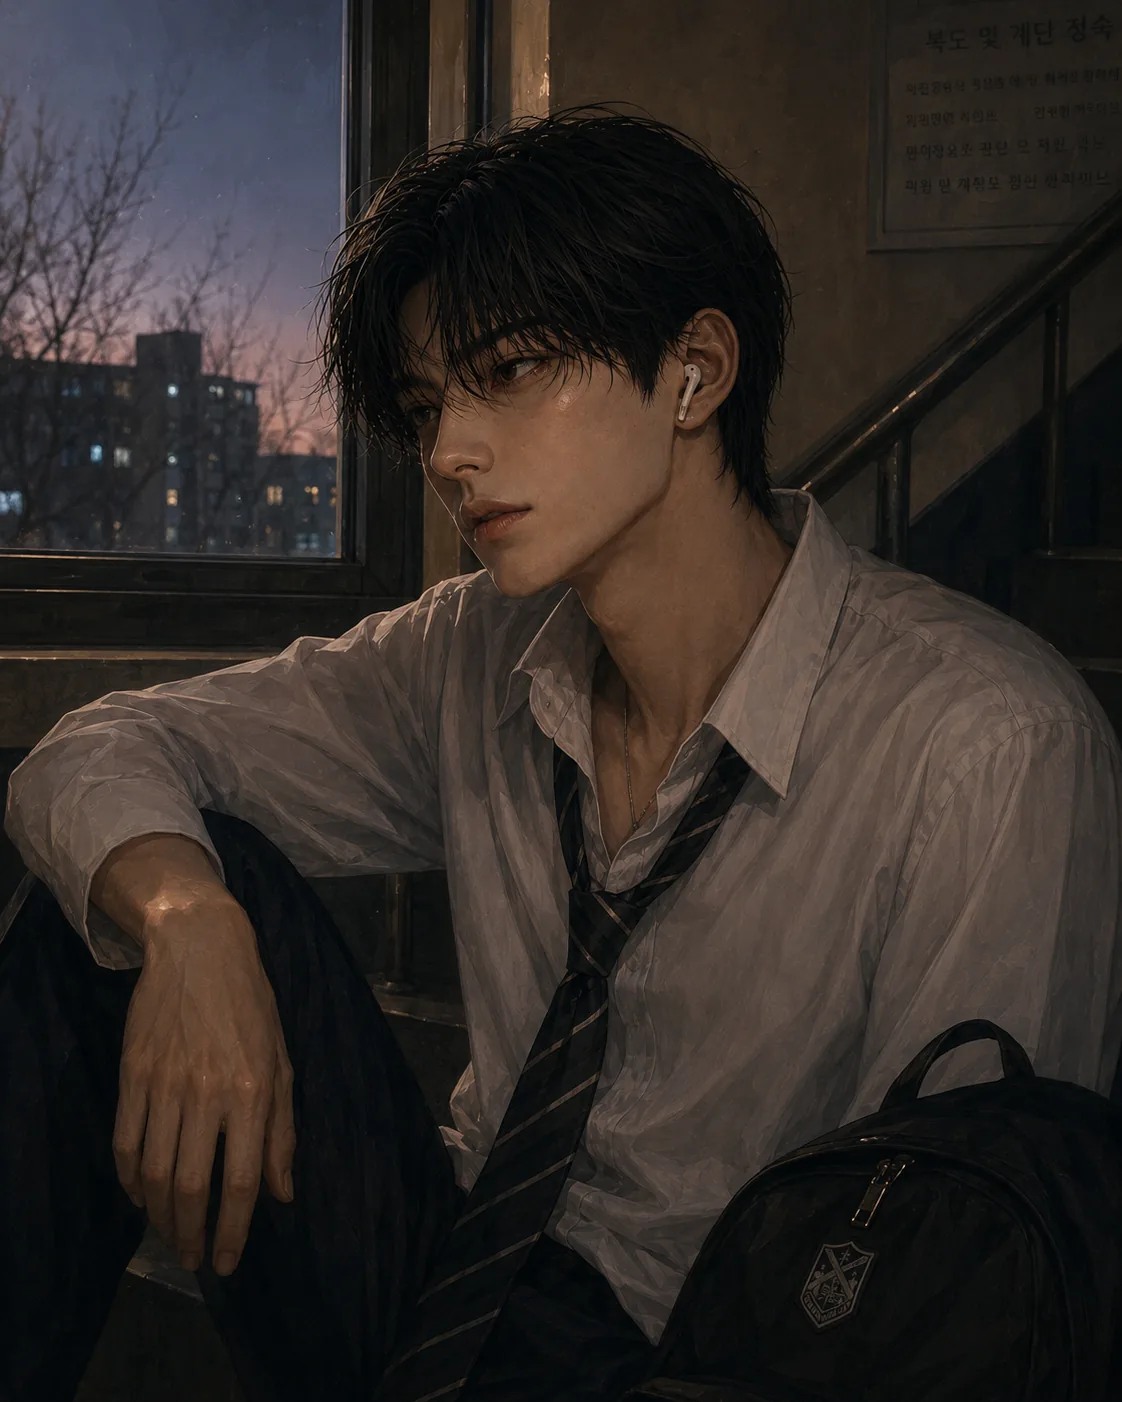
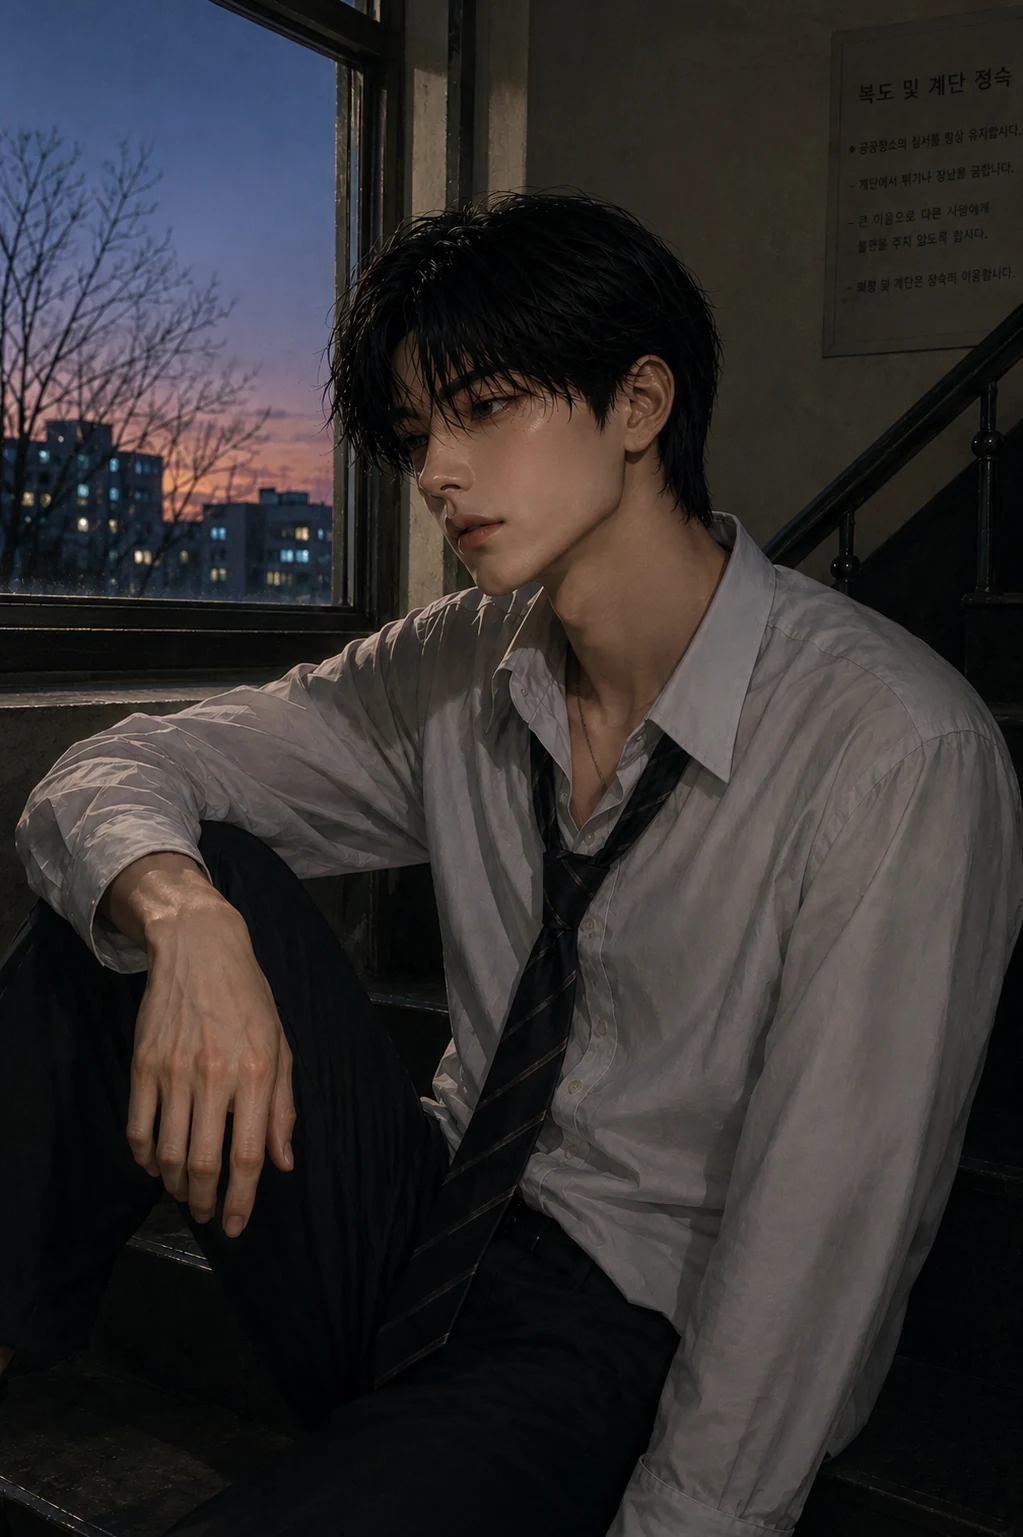
민현 사진 다섯 장을 새로 뽑은 것으로 간다
옥상·계단참·보건실은 있던 자리를 갈아끼웠다. 옥상 사진에서 자판기가
빠졌으므로 설명도 난간 쪽으로 고쳤다 — 그림과 설명이 갈리면 인물이
사진마다 다른 데 있는 사람이 된다.

레코드샵은 지금까지 민현 셀카 한 장뿐이었다. 교복 차림과 사복 차림
두 장을 넣었다. 사복 쪽은 교복이 아닌 몇 안 되는 사진이라, 학교와
상관없이 제 발로 온 자리라는 것이 그 한 장으로 읽힌다.

Claude-Session: https://claude.ai/code/session_01437N5arYTDRea9BKubBq2J

diff --git a/app-data.js b/app-data.js
@@ -23,7 +23,7 @@ const CHARS = {
   jaeeon:{name:"이재언",color:"#7FD8D8",dk:"#2fa8a0",pale:"#cef0ee",img:"jaeeon-profile.webp",zoom:"150%",pos:"50% 22%",
     gallery:["jaeeon-treat.webp","jaeeon-care.webp","jaeeon-cook.webp","jaeeon-work.webp","jaeeon-evening.webp","jaeeon-market.webp","jaeeon-laundry.webp","jaeeon-car.webp","jaeeon-classroom.webp","jaeeon-rooftop.webp","jaeeon-curtain.webp","jaeeon-shelf.webp","jaeeon-bandage.webp","jaeeon-cabinet.webp","jaeeon-bottle.webp","jaeeon-chart.webp","jaeeon-door.webp","jaeeon-mug.webp","jaeeon-back.webp","jaeeon-driveseat.webp","jaeeon-corridor.webp","jaeeon-sink.webp"]},
   minhyun:{name:"이민현",color:"#FF9E80",dk:"#f0764a",pale:"#ffe0d2",img:"minhyun-profile.webp",zoom:"150%",pos:"50% 22%",
-    gallery:["minhyun-candy.webp","minhyun-corridor.webp","minhyun-rain.webp","minhyun-gate.webp","minhyun-morning.webp","minhyun-alley.webp","minhyun-gym.webp","minhyun-busstop.webp","minhyun-winter.webp","minhyun-snow.webp","minhyun-bench.webp","minhyun-desk.webp","minhyun-stair.webp","minhyun-vending.webp","minhyun-laundry.webp","minhyun-conv.webp","minhyun-nap.webp","minhyun-neon.webp","minhyun-ramen.webp","minhyun-window.webp","minhyun-mirror.webp"]},
+    gallery:["minhyun-candy.webp","minhyun-corridor.webp","minhyun-rain.webp","minhyun-gate.webp","minhyun-morning.webp","minhyun-alley.webp","minhyun-gym.webp","minhyun-busstop.webp","minhyun-winter.webp","minhyun-snow.webp","minhyun-bench.webp","minhyun-desk.webp","minhyun-stair.webp","minhyun-vending.webp","minhyun-laundry.webp","minhyun-conv.webp","minhyun-nap.webp","minhyun-neon.webp","minhyun-ramen.webp","minhyun-window.webp","minhyun-mirror.webp","minhyun-crate.webp","minhyun-record.webp"]},
 };
 /* 교생 실습 기간. etc.의 D-카운트가 여기서 나온다 */
 const ENROLL_DAYS = 30;
@@ -810,7 +810,7 @@ const SCENE_SHOT={
   "옥상":     {jaeeon:["jaeeon-rooftop"], minhyun:["minhyun-vending"]},
   "편의점":   {minhyun:["minhyun-conv","minhyun-ramen"]},
   "도서관":   {jaeeon:["jaeeon-shelf"]},
-  "레코드샵": {minhyun:["minhyun-mirror"]},
+  "레코드샵": {minhyun:["minhyun-crate","minhyun-record","minhyun-mirror"]},
   /* 밤에 처음 켜면 여기서 재언을 만난다. 사진도 밤 코인세탁소다 —
      건조기 앞에 앉아 수건을 개고 있고 창밖에 비가 온다 */
   "빨래방":   {minhyun:["minhyun-laundry"], jaeeon:["jaeeon-laundry"]},

diff --git a/app/lib/rules.ts b/app/lib/rules.ts
@@ -32,7 +32,7 @@ const CHARS = {
   jaeeon:{name:"이재언",color:"#7FD8D8",dk:"#2fa8a0",pale:"#cef0ee",img:"jaeeon-profile.webp",zoom:"150%",pos:"50% 22%",
     gallery:["jaeeon-treat.webp","jaeeon-care.webp","jaeeon-cook.webp","jaeeon-work.webp","jaeeon-evening.webp","jaeeon-market.webp","jaeeon-laundry.webp","jaeeon-car.webp","jaeeon-classroom.webp","jaeeon-rooftop.webp","jaeeon-curtain.webp","jaeeon-shelf.webp","jaeeon-bandage.webp","jaeeon-cabinet.webp","jaeeon-bottle.webp","jaeeon-chart.webp","jaeeon-door.webp","jaeeon-mug.webp","jaeeon-back.webp","jaeeon-driveseat.webp","jaeeon-corridor.webp","jaeeon-sink.webp"]},
   minhyun:{name:"이민현",color:"#FF9E80",dk:"#f0764a",pale:"#ffe0d2",img:"minhyun-profile.webp",zoom:"150%",pos:"50% 22%",
-    gallery:["minhyun-candy.webp","minhyun-corridor.webp","minhyun-rain.webp","minhyun-gate.webp","minhyun-morning.webp","minhyun-alley.webp","minhyun-gym.webp","minhyun-busstop.webp","minhyun-winter.webp","minhyun-snow.webp","minhyun-bench.webp","minhyun-desk.webp","minhyun-stair.webp","minhyun-vending.webp","minhyun-laundry.webp","minhyun-conv.webp","minhyun-nap.webp","minhyun-neon.webp","minhyun-ramen.webp","minhyun-window.webp","minhyun-mirror.webp"]},
+    gallery:["minhyun-candy.webp","minhyun-corridor.webp","minhyun-rain.webp","minhyun-gate.webp","minhyun-morning.webp","minhyun-alley.webp","minhyun-gym.webp","minhyun-busstop.webp","minhyun-winter.webp","minhyun-snow.webp","minhyun-bench.webp","minhyun-desk.webp","minhyun-stair.webp","minhyun-vending.webp","minhyun-laundry.webp","minhyun-conv.webp","minhyun-nap.webp","minhyun-neon.webp","minhyun-ramen.webp","minhyun-window.webp","minhyun-mirror.webp","minhyun-crate.webp","minhyun-record.webp"]},
 };
 /* 교생 실습 기간. etc.의 D-카운트가 여기서 나온다 */
 const ENROLL_DAYS = 30;
@@ -819,7 +819,7 @@ const SCENE_SHOT={
   "옥상":     {jaeeon:["jaeeon-rooftop"], minhyun:["minhyun-vending"]},
   "편의점":   {minhyun:["minhyun-conv","minhyun-ramen"]},
   "도서관":   {jaeeon:["jaeeon-shelf"]},
-  "레코드샵": {minhyun:["minhyun-mirror"]},
+  "레코드샵": {minhyun:["minhyun-crate","minhyun-record","minhyun-mirror"]},
   /* 밤에 처음 켜면 여기서 재언을 만난다. 사진도 밤 코인세탁소다 —
      건조기 앞에 앉아 수건을 개고 있고 창밖에 비가 온다 */
   "빨래방":   {minhyun:["minhyun-laundry"], jaeeon:["jaeeon-laundry"]},

diff --git a/worker.js b/worker.js
@@ -1319,7 +1319,15 @@ const PHOTOS = {
   },
   "minhyun-vending": {
     char: "minhyun",
-    when: "옥상 자판기 옆. 헤드폰은 목에 걸려 있다. 야자 째고 뭐 하냐는 물음에.",
+    when: "해질 무렵 옥상 난간에 기대 앉아 있는 참. 헤드폰은 목에 걸려 있다 — 듣고 있지 않다는 뜻이다. 야자 째고 뭐 하냐는 물음에.",
+  },
+  "minhyun-crate": {
+    char: "minhyun",
+    when: "교복 차림으로 레코드샵 중고반 상자를 넘겨 보는 중. 헤드폰은 목에. 학교 끝나고 바로 온 것이다. 뭐 하냐, 어디냐는 물음에.",
+  },
+  "minhyun-record": {
+    char: "minhyun",
+    when: "밤 레코드샵. 사복에 가방을 멘 채 판 한 장을 꺼내 들여다보는 중. 교복이 아닌 몇 안 되는 사진이다 — 학교와 상관없이 제 발로 온 자리다. 음악·주말·좋아하는 것 얘기에.",
   },
   "minhyun-laundry": {
     char: "minhyun",

diff --git a/README.md b/README.md
@@ -41,7 +41,7 @@ tools/build-demo.mjs     # 문구집 → demo-lines.js + app/lib/demoLines.ts
 tools/build-rules.mjs    # app-data.js → app/lib/rules.ts (규칙은 손으로 안 베낀다)
 test/run.mjs          # 회귀 테스트
 cab-icons/            # 캐비닛 지도 — 프레임·문짝 열림/잠김·명패·TV
-*.webp                # 배경·사진·프로필 126장 — 인물 78, 자리·물건·선물 38, 히든 문서 8, 바탕화면 2
+*.webp                # 배경·사진·프로필 127장 — 인물 79, 자리·물건·선물 38, 히든 문서 8, 바탕화면 2
 null-logo.mp3         # 오프닝 로고곡
 ```
 
